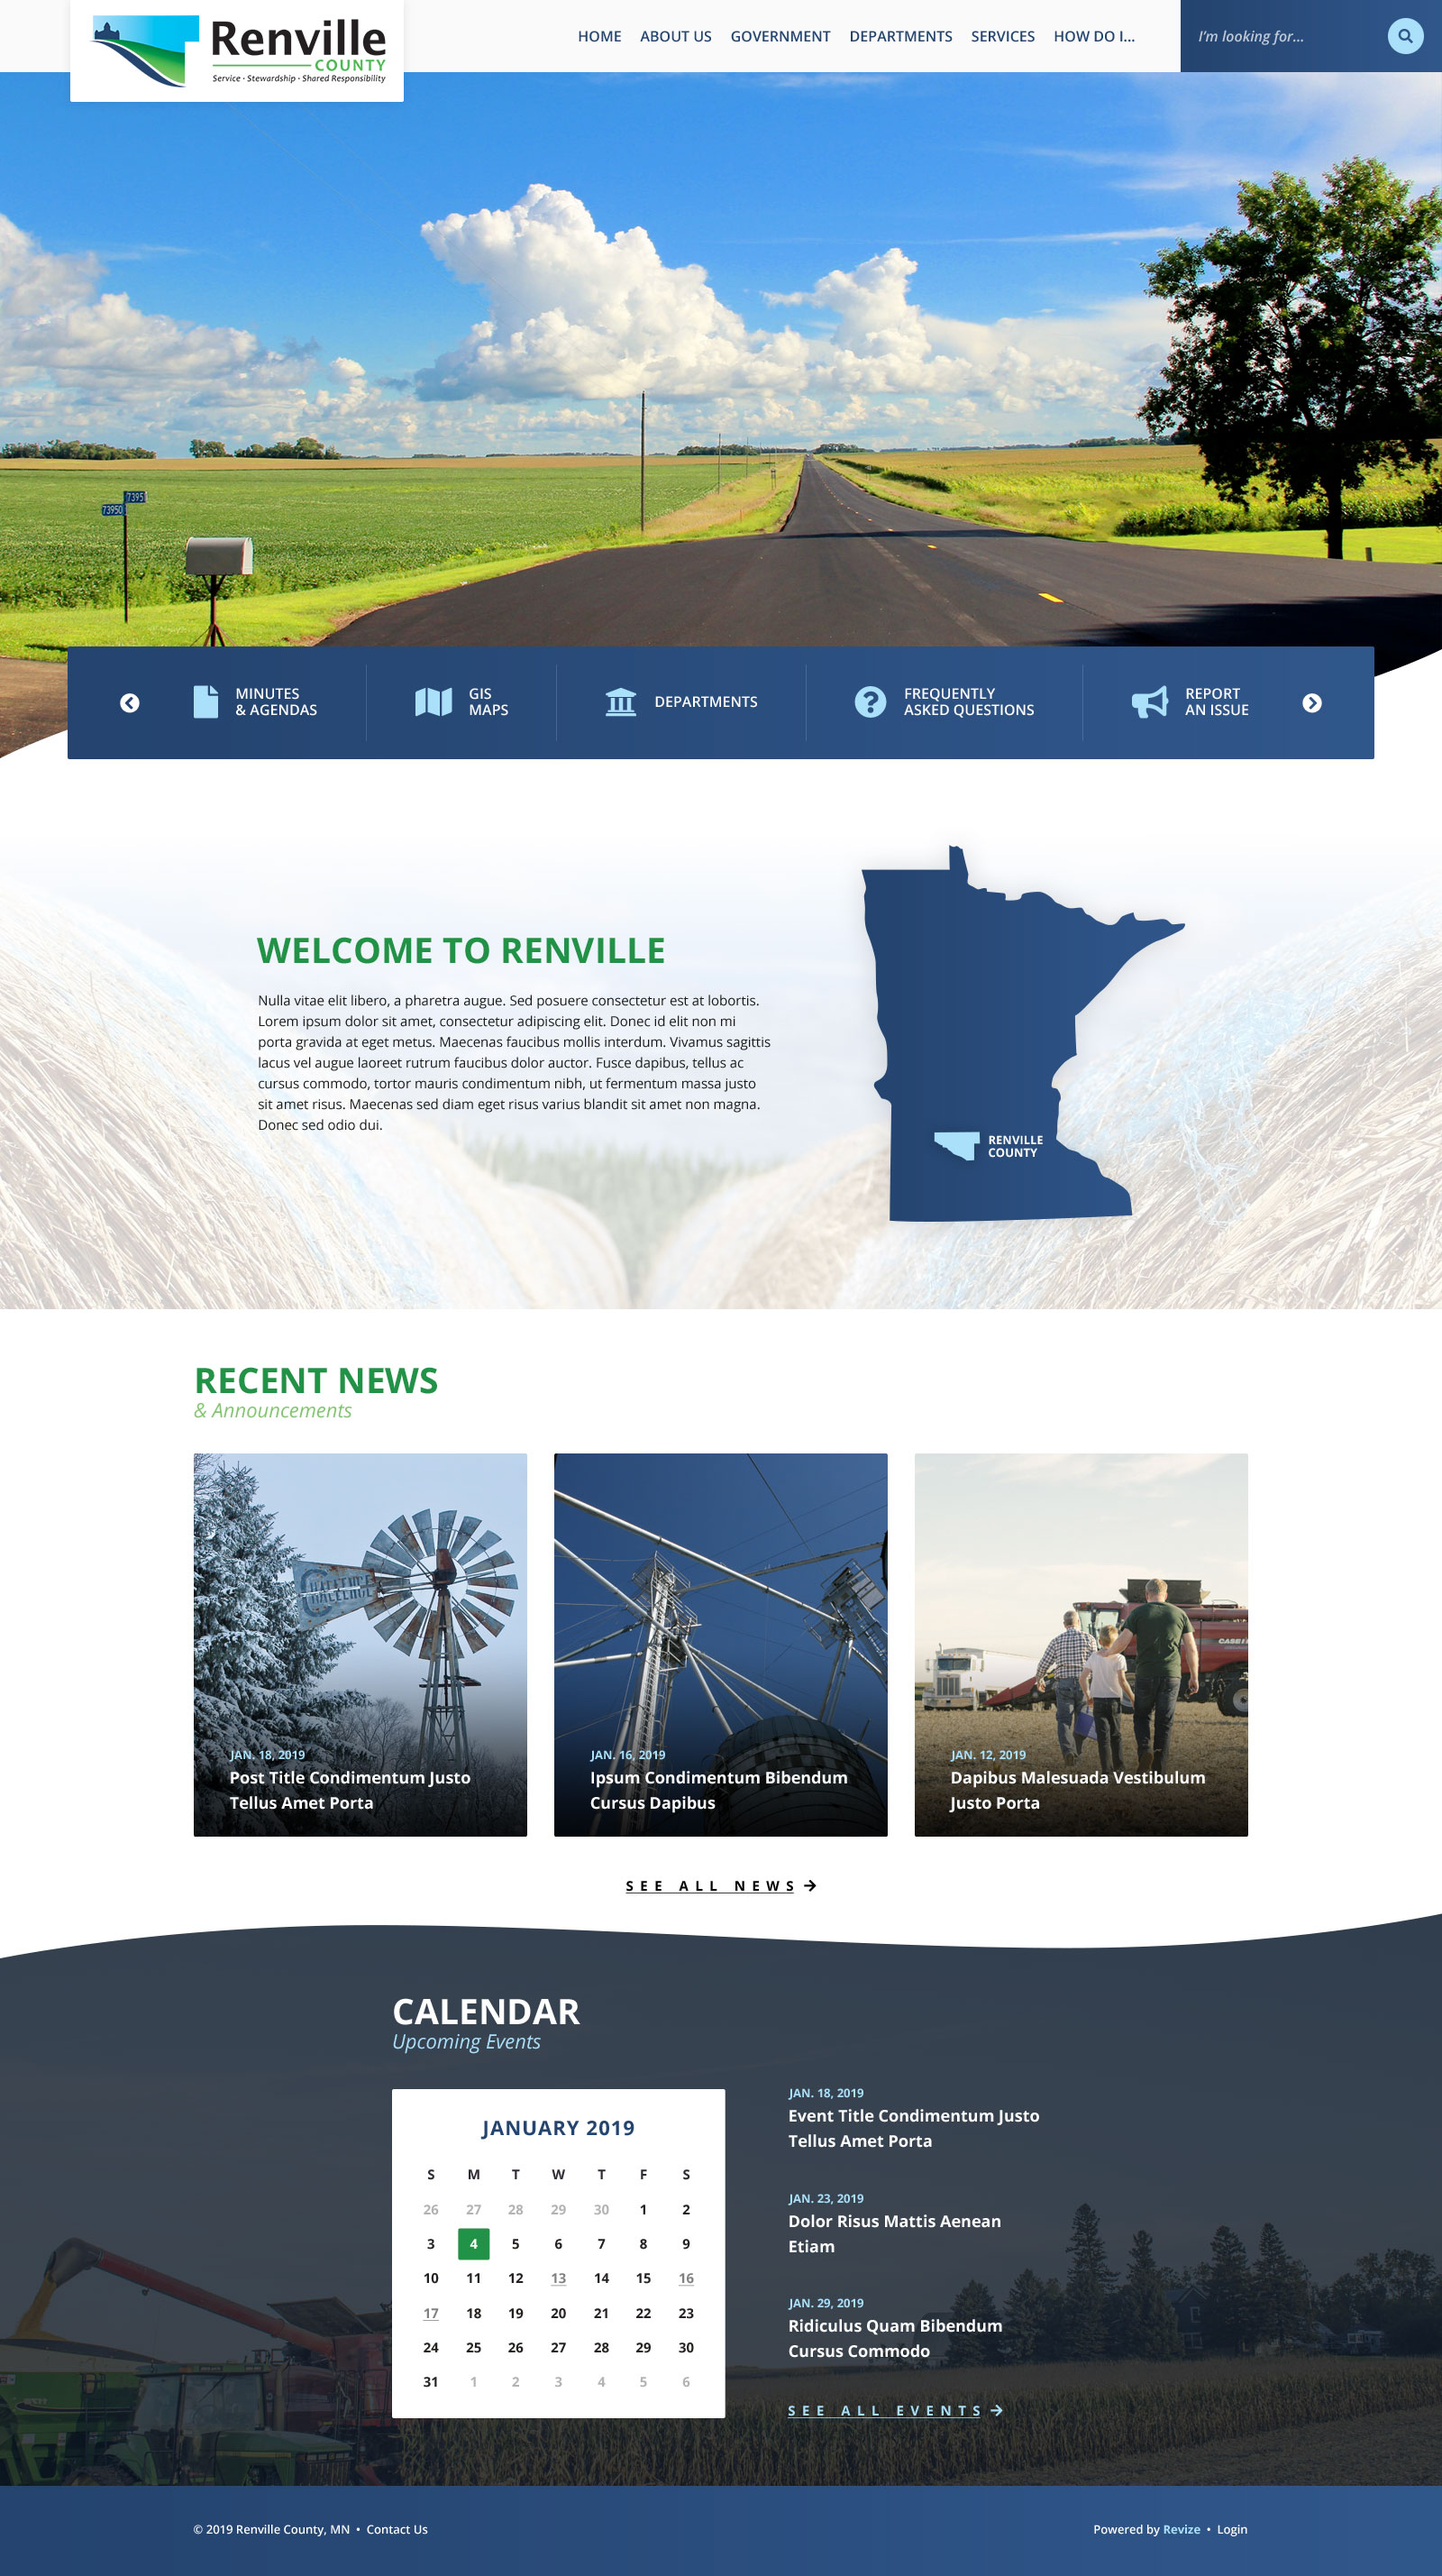
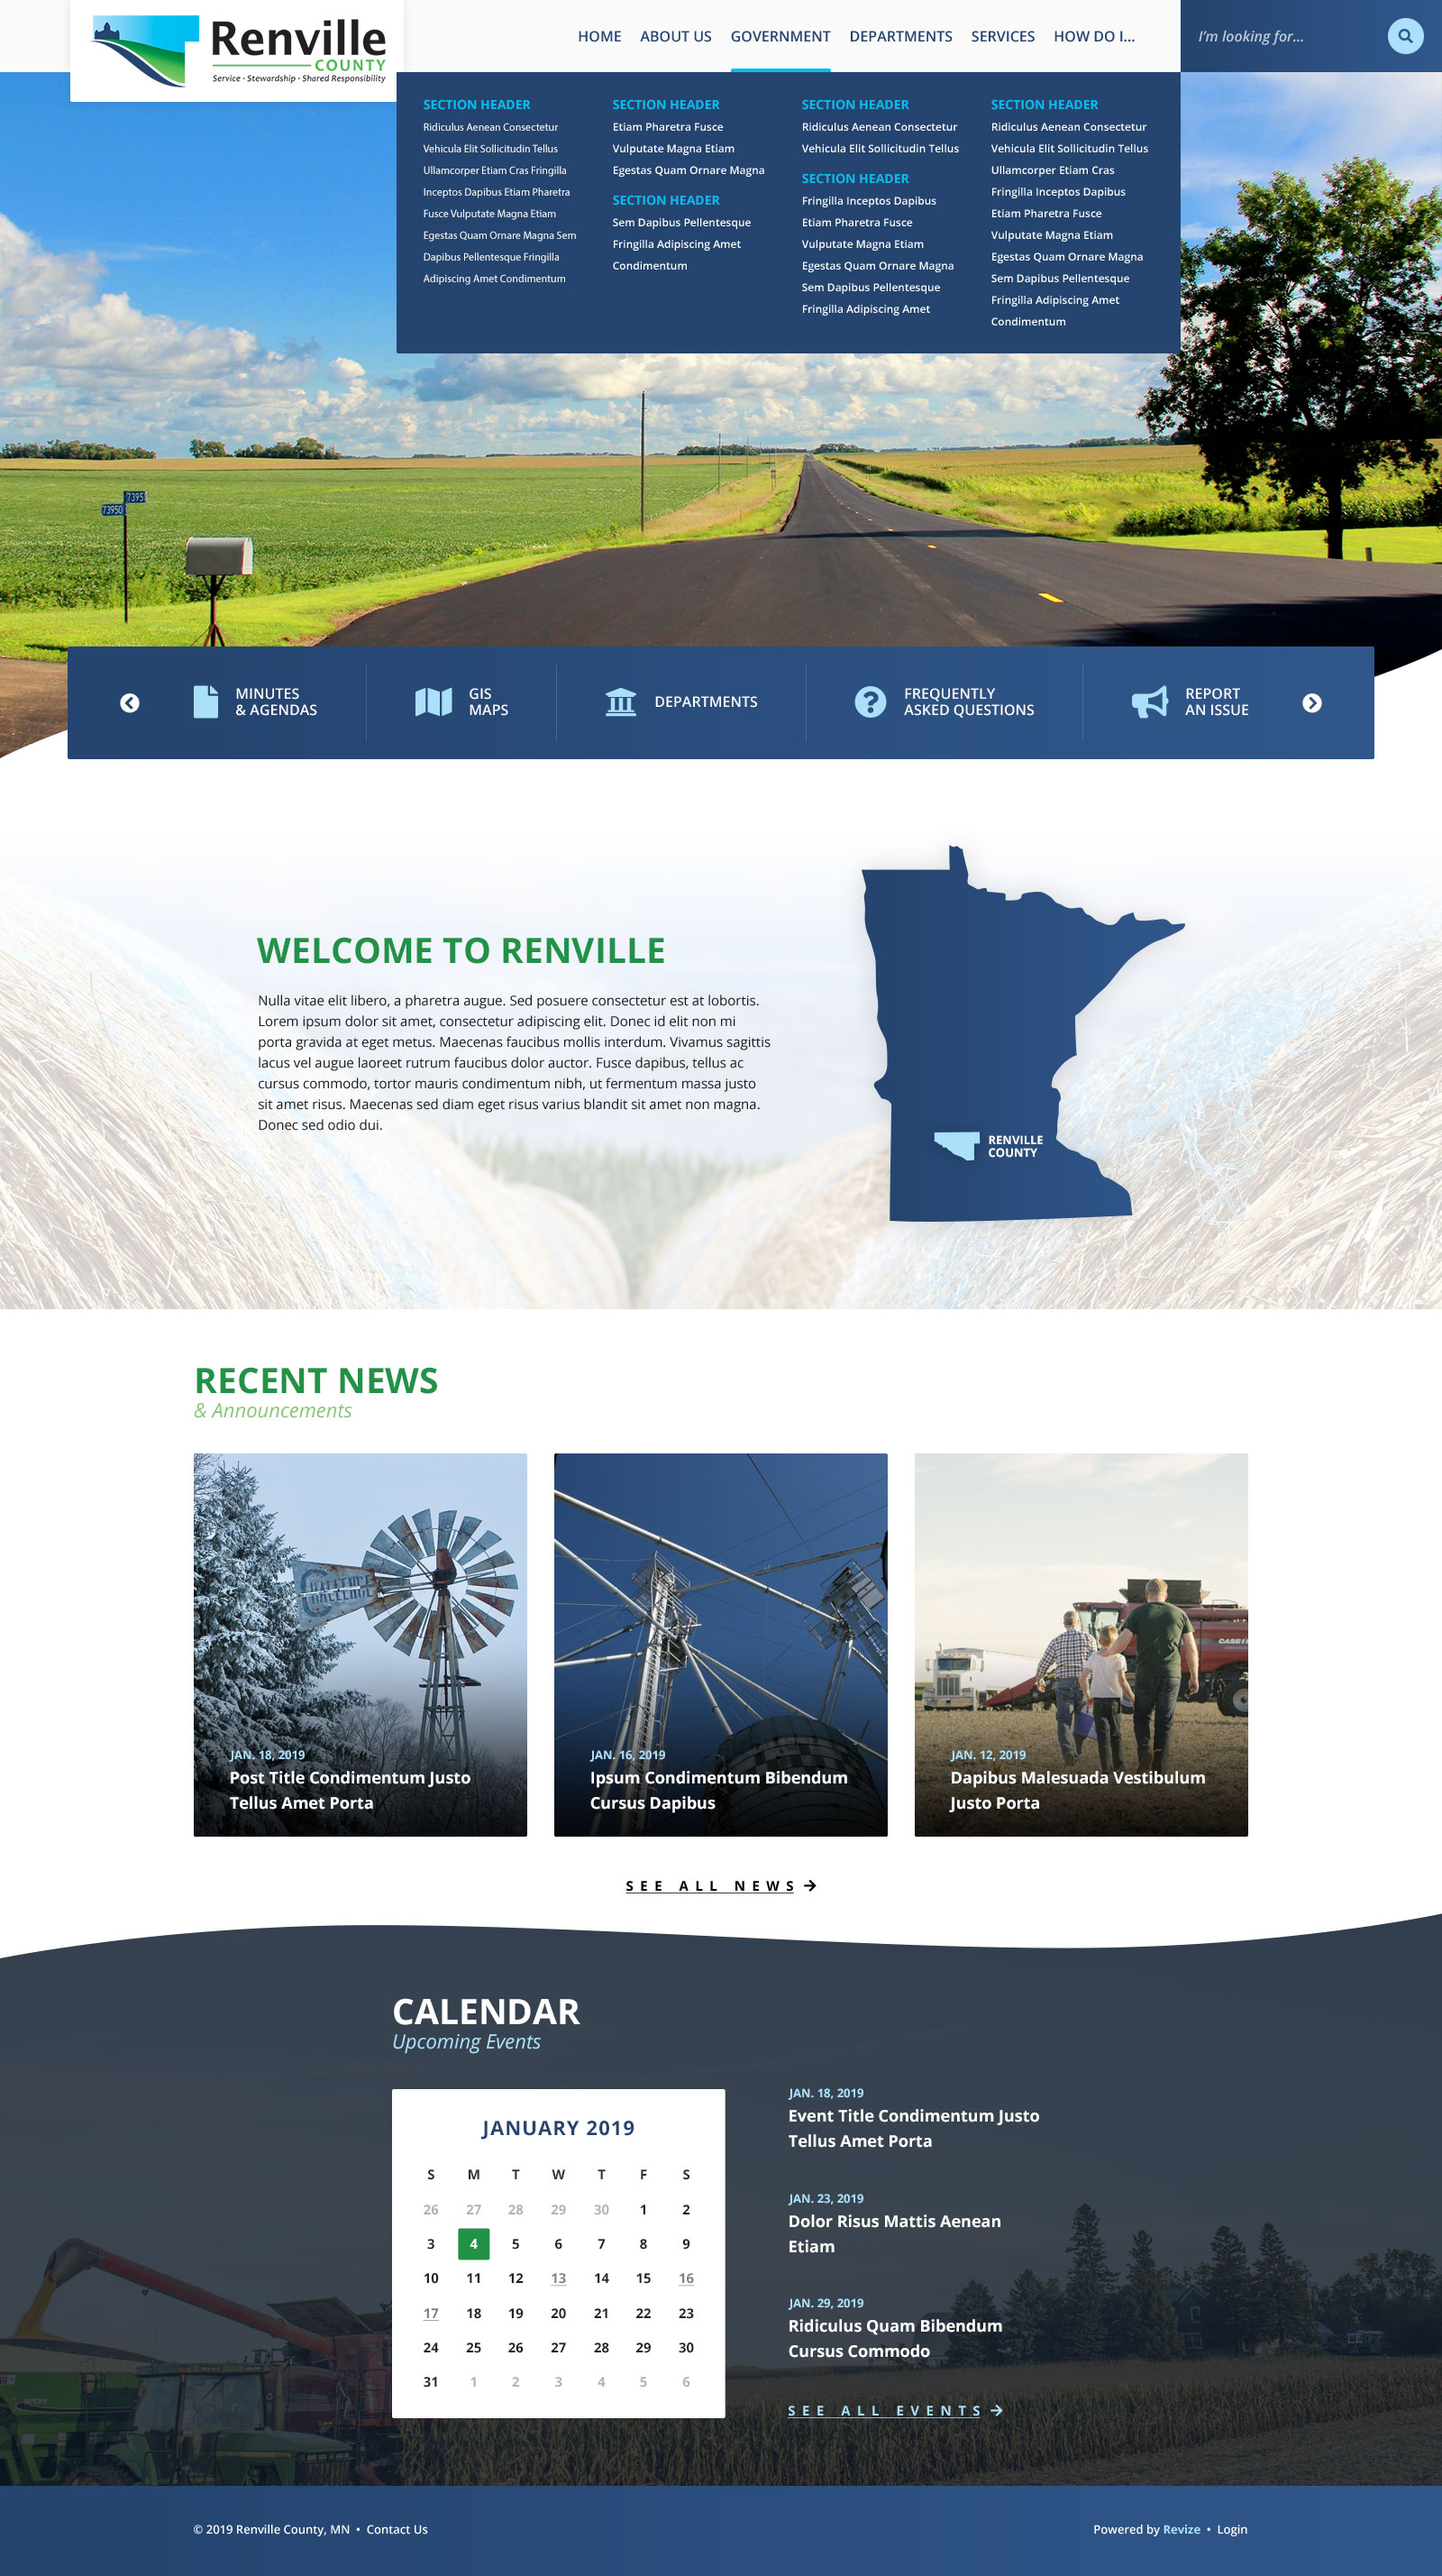
finished mega menu and made site pixel perfect

Changed region(s): [[0.25, 0.0, 0.8438, 0.1558]]

diff --git a/_assets_/css/layout.css b/_assets_/css/layout.css
@@ -204,12 +204,13 @@ header {position: relative; top: 0; left: 0;}
 header ul {margin: 0; padding: 0;}
 nav {float: right;}
 #nav {margin-right: 40px; font-size: 0;}
-#nav li {display: inline-block; margin: 0;}
+#nav li {display: inline-block; margin: 0; position: relative;}
+#nav>li:hover:before {content: ''; position: absolute; bottom: 0; left: 0; background-color: #50baea; width: 100%; height: 4px; border-radius: 4px;}
+#nav>li:hover ul {display: block;}
 #nav li a,
 #nav li span {font-weight: 600; font-size: 16px; text-transform: uppercase; text-decoration: none; color: #2a446c; display: inline-block; padding: 30px 10.25px;}
-#nav ul {display: none;}
 
-#search {position: relative; float: right; width: 290px; background-color: #2c4771; padding: 23px 0;}
+#search {position: relative; float: right; width: 290px; background-color: #2c4771; padding: 23.25px 0;}
 .search-form {margin: 0;}
 #search input {width: 100%; background-color: transparent; border: none; padding: 0 70px 0 20px; color: #ffffff; opacity: 0.7; font-size: 16px;}
 #search input::placeholder {font-weight: 600; font-style: italic; font-size: 16px; color: #ffffff;}
@@ -218,13 +219,13 @@ nav {float: right;}
 #search button:before {font-weight: 400;}
 
 /* ----------------- #slider ----------------- */
-#slider {position: relative; top: -33px; height: 771px;}
+#slider {position: relative; top: -33px; height: 761px;}
 
 #hero-whitespace {position: absolute; left: 0; bottom: 0; width: 100%; z-index: 50;}
 
 
 /* ----------------- #quick-links ----------------- */
-#quick-link-wrapper {width: 1450px; max-width: 100%; margin: 0 auto; background-color: #2a456d; position: relative; bottom: 134px; left: 0; z-index: 51;}
+#quick-link-wrapper {width: 1450px; max-width: 100%; margin: 0 auto; background-color: #2a456d; position: relative; bottom: 125px; left: 0; z-index: 51;}
 #quick-link-wrapper .container {padding: 0; max-width: calc(100% - 250px);}
 
 #quick-links {position: relative;}
@@ -240,17 +241,17 @@ nav {float: right;}
 
 
 /* ----------------- #welcome ----------------- */
-#welcome {position: relative; top: 32px; height: 536px;}
+#welcome {position: relative; top: 41px; height: 536px;}
 #welcome:before {content: ''; position: absolute; top: 0; bottom: 0; left: 0; width: 100%; background: url('../images/welcome-bg.jpg') left top no-repeat; background-size: cover; z-index: -1; opacity: 0.2;}
 
 #welcome-content {padding: 103px 45px 103px 85px;}
 #welcome h2 {font-size: 39px; line-height: 27px; font-weight: 700; text-transform: uppercase; color: #478f4f; margin: 20px 0 32px;}
 #welcome p {font-size: 15px; line-height: 23px;}
-#welcome img {margin: 20.5px 0 0 41px;}
+#welcome img {margin: 21.5px 0 0 41px;}
 
 
 /* ----------------- #news ----------------- */
-#news {position: relative; margin-top: 32px; padding: 64px 50px 0;}
+#news {position: relative; margin-top: 41px; padding: 64px 50px 0;}
 #news .container>a {position: absolute; bottom: -68px; left: 50%; transform: translateX(-48%); font-size: 15px; font-weight: 700; line-height: 27px; text-transform: uppercase; text-decoration: none; color: #000; letter-spacing: 7.5px;}
 #news .container>a:after {content: '\f061'; font-family: 'FontAwesome', 'sans-serif'; margin-left: 6px;}
 #news h2 {font-size: 39px; font-weight: 700; line-height: 27px; text-transform: uppercase; color: #478f4f; margin: 0;}
@@ -422,13 +423,26 @@ footer .container {padding: 37px 15px 41px;}
 
 		#nav>li>ul {
 			-moz-column-count: 4;
-			-moz-column-gap: 40px;
+			-moz-column-gap: 30px;
 			-webkit-column-count: 4;
-			-webkit-column-gap: 40px;
+			-webkit-column-gap: 30px;
 			column-count: 4;
-			column-gap: 40px;
-			padding:40px
+			column-gap: 30px;
+			padding:14px 29px;
+			margin: 0;
+			position: absolute;
+			top: 100%;
+			left: -361px;
+			z-index: 100;
+			background-color: #2a446c;
+			width: 870px;
+			height: 312px;
+			display: none;
 		}
+		#nav>li>ul li a,
+		#nav>li>ul li span {color: #50baea; padding: 0; margin: 10px 0 0; font-size: 14px; line-height: 24px; font-weight: 700;}
+		#nav>li>ul ul li a,
+		#nav>li>ul ul li span {color: #fff; padding: 0; margin: 0; font-size: 12px; line-height: 24px; font-weight: 400; text-transform: capitalize;}
 
 		#freeform main {margin-top: -32px;}
 
